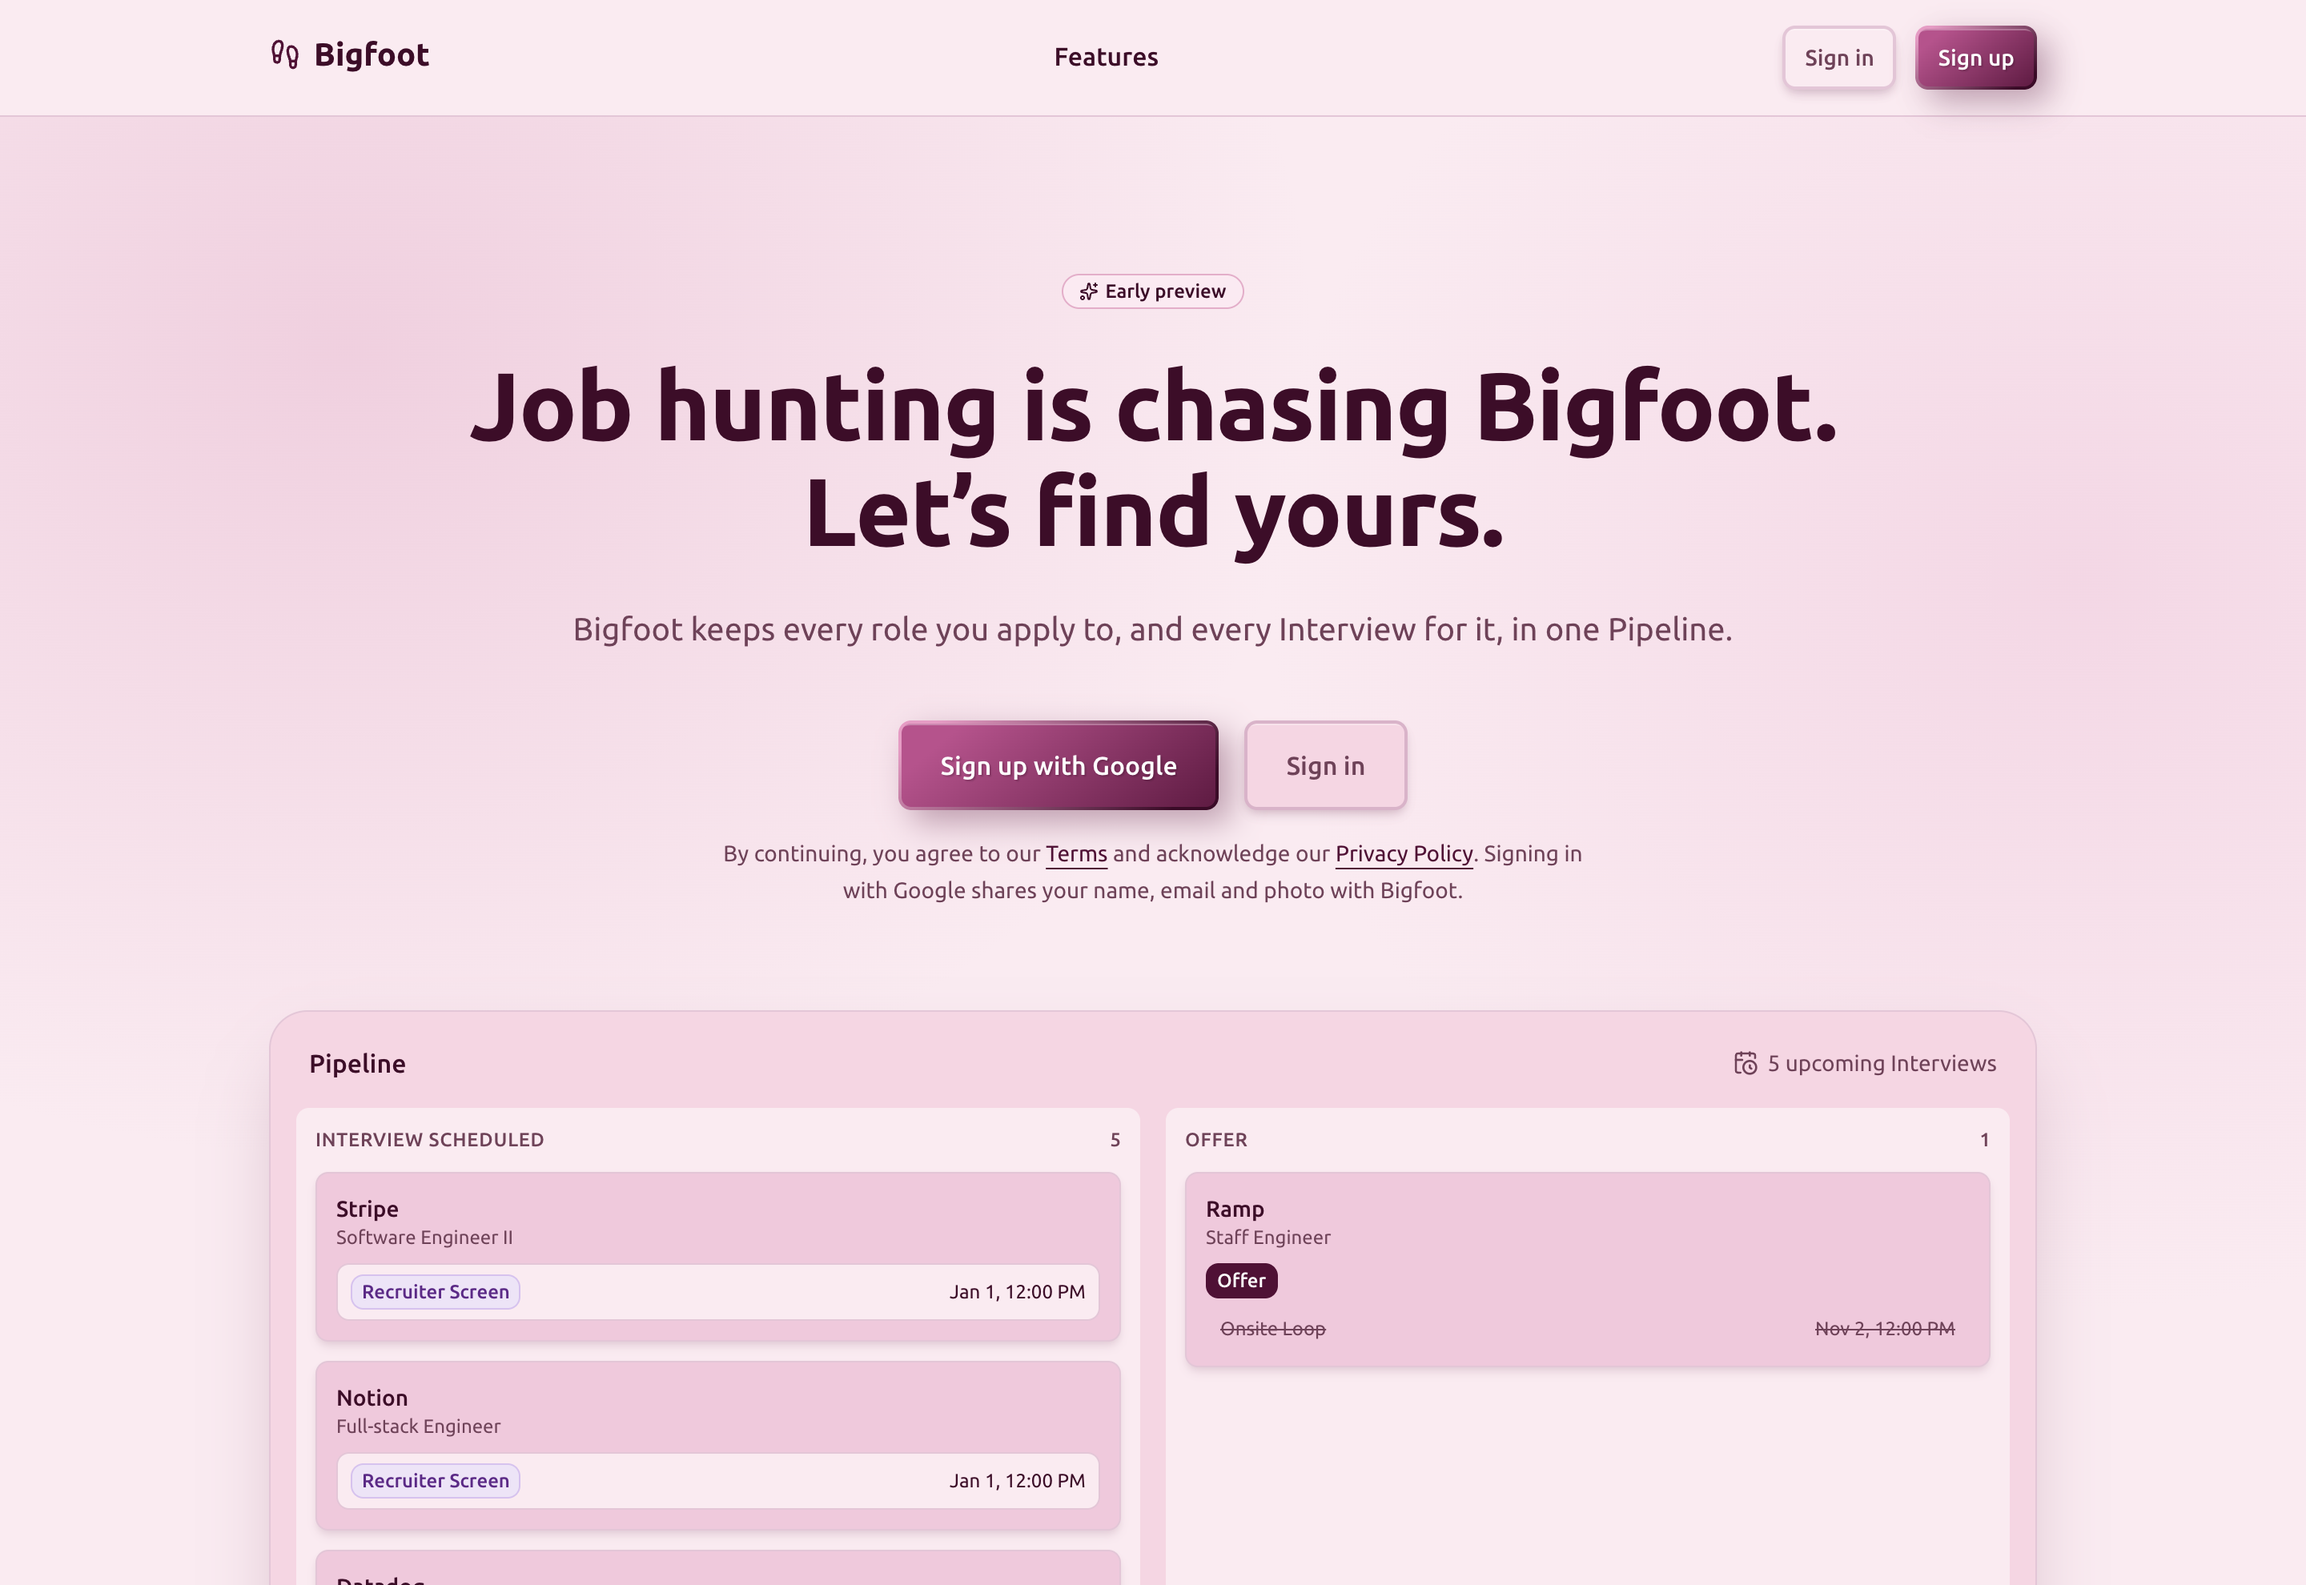
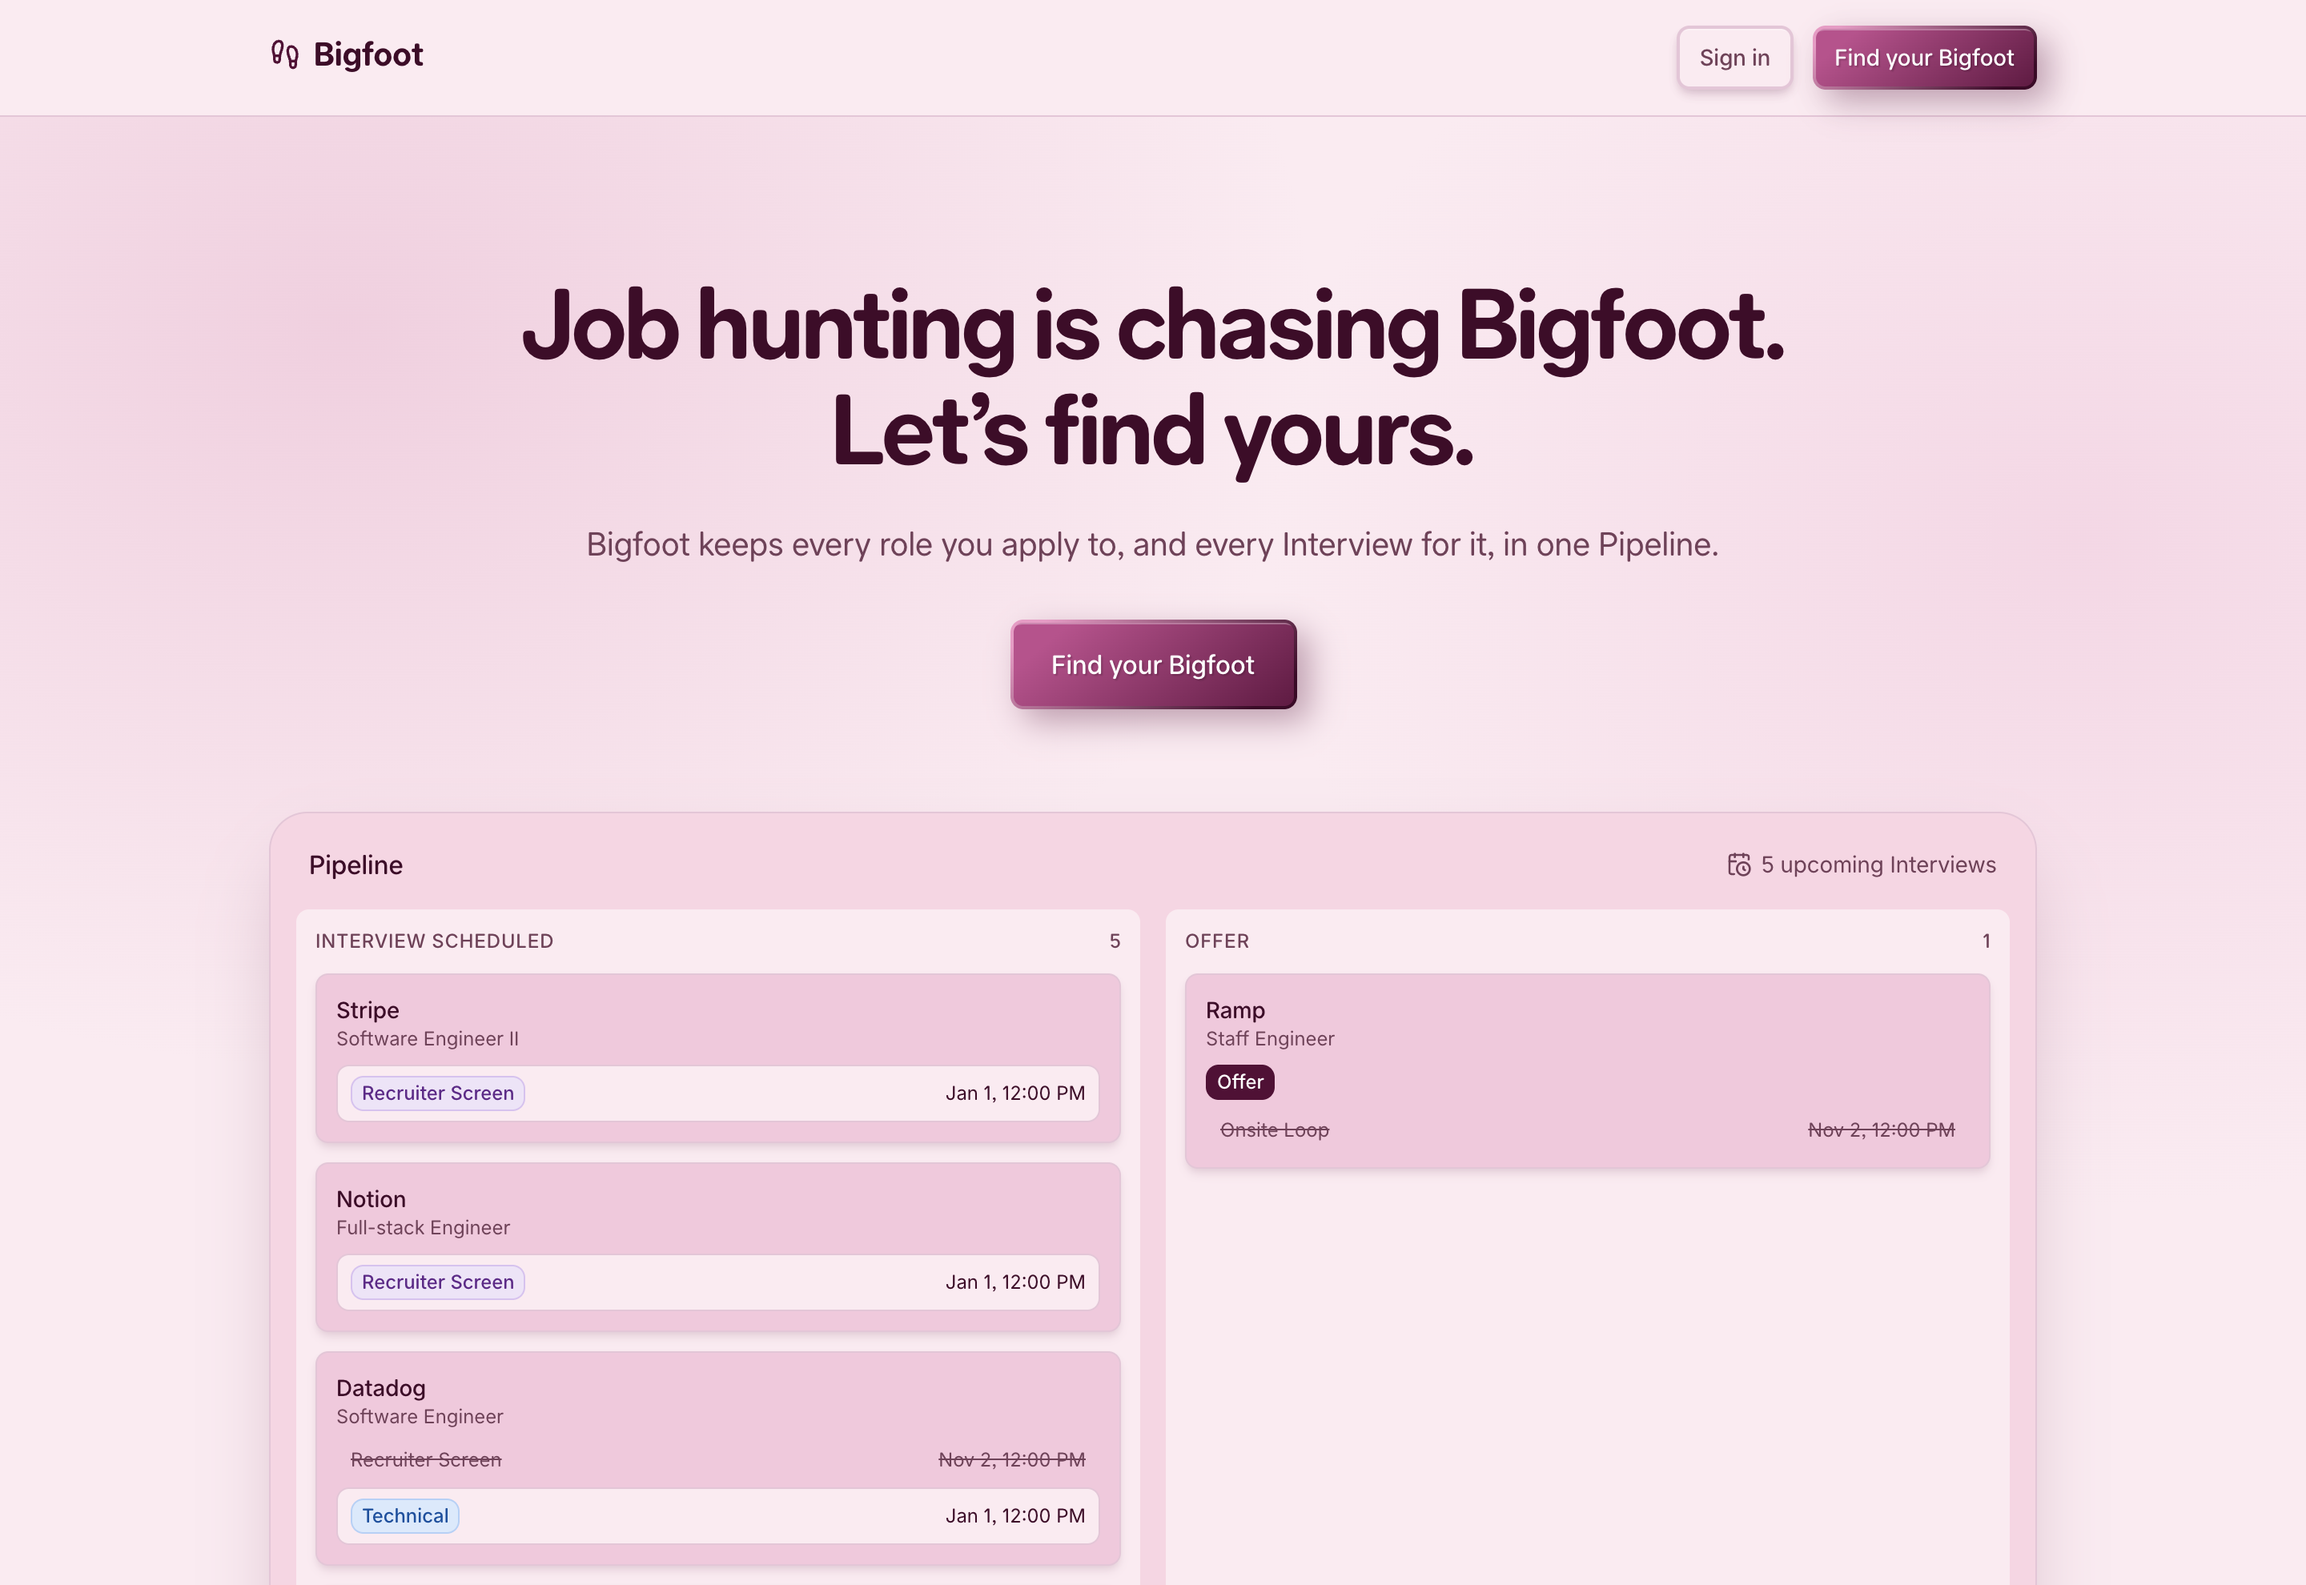
Switch the app font from Ubuntu to Allo, fully round (BIG-94)
Load Allo's variable font from the allo-font package with next/font/local, so it stays
self-hosted, and set its roundness axis to 100 on body. Remove the Ubuntu files, name Allo
in the TypeUI skill, and retake the README screenshots.

diff --git a/src/app/layout.tsx b/src/app/layout.tsx
@@ -2,14 +2,17 @@ import type { Metadata } from "next";
 import localFont from "next/font/local";
 import "./globals.css";
 
-// Ubuntu, latin subset, shipped in the repo (licence: fonts/UFL.txt) so dev, smoke and
-// build never need to reach Google Fonts.
-const ubuntu = localFont({
-  variable: "--font-ubuntu",
+// Allo (allo-font, SIL OFL 1.1), self-hosted from the npm package so dev, smoke and build
+// never reach a font CDN. The full variable font, so globals.css can set its roundness axis;
+// one file covers every weight from 100 to 900.
+const allo = localFont({
+  variable: "--font-allo",
   src: [
-    { path: "./fonts/ubuntu-latin-400.woff2", weight: "400", style: "normal" },
-    { path: "./fonts/ubuntu-latin-500.woff2", weight: "500", style: "normal" },
-    { path: "./fonts/ubuntu-latin-700.woff2", weight: "700", style: "normal" },
+    {
+      path: "../../node_modules/allo-font/fonts/webfonts/AlloVariable.woff2",
+      weight: "100 900",
+      style: "normal",
+    },
   ],
 });
 
@@ -21,7 +24,7 @@ export const metadata: Metadata = {
 
 export default function RootLayout({ children }: LayoutProps<"/">) {
   return (
-    <html lang="en" className={`${ubuntu.variable} antialiased`}>
+    <html lang="en" className={`${allo.variable} antialiased`}>
       <body className="min-h-dvh font-sans">{children}</body>
     </html>
   );

diff --git a/src/app/globals.css b/src/app/globals.css
@@ -165,7 +165,7 @@
 }
 
 @theme inline {
-  --font-sans: var(--font-ubuntu), ui-sans-serif, system-ui, sans-serif;
+  --font-sans: var(--font-allo), ui-sans-serif, system-ui, sans-serif;
 
   --color-surface: var(--surface);
   --color-surface-white: var(--surface-white);
@@ -250,6 +250,8 @@ body {
   color: var(--body);
   font-size: 16px;
   line-height: 1.7;
+  /* Allo's roundness axis: 0 sharp, 50 its default, 100 round. */
+  font-variation-settings: "ROND" 100;
 }
 
 :where(a, button, summary, [tabindex]):focus-visible {

diff --git a/.agents/skills/typeui-design-system/buttons.md b/.agents/skills/typeui-design-system/buttons.md
@@ -10,7 +10,7 @@
 - **Glint effect:** Every button except ghost and disabled gets a combined box-shadow that layers the base shadow with an inset top-edge highlight and a subtle outer color glow:
   - `var(--shadow-xs), inset var(--color-1-400) 0 6px 0px -5px, var(--color-1-700) 0 4px 10px -5px`
 - **Font weight:** 500 (medium)
-- **Font:** Ubuntu
+- **Font:** Allo
 - **Text shadow:** subtle wine-toned text shadow for filled gradient buttons — `1px 1px 1px rgba(42,10,29,0.25)` (use a tone from the brand palette, never pure black)
 - **Box sizing:** border-box
 - **Transition:** all properties, 0.3s

diff --git a/.claude/skills/typeui-design-system/buttons.md b/.claude/skills/typeui-design-system/buttons.md
@@ -10,7 +10,7 @@
 - **Glint effect:** Every button except ghost and disabled gets a combined box-shadow that layers the base shadow with an inset top-edge highlight and a subtle outer color glow:
   - `var(--shadow-xs), inset var(--color-1-400) 0 6px 0px -5px, var(--color-1-700) 0 4px 10px -5px`
 - **Font weight:** 500 (medium)
-- **Font:** Ubuntu
+- **Font:** Allo
 - **Text shadow:** subtle wine-toned text shadow for filled gradient buttons — `1px 1px 1px rgba(42,10,29,0.25)` (use a tone from the brand palette, never pure black)
 - **Box sizing:** border-box
 - **Transition:** all properties, 0.3s

diff --git a/.agents/skills/typeui-design-system/typography.md b/.agents/skills/typeui-design-system/typography.md
@@ -4,7 +4,7 @@
 
 ## Core Rules
 
-- **Font:** Ubuntu, sans-serif — configured at app level, never override
+- **Font:** Allo, sans-serif, at roundness 100 — configured at app level, never override
 - **Headings:** bold weight (700), heading text color
 - **Body copy:** body text color, never use brand color for paragraphs longer than one sentence
 - **Semantic HTML:** Use `h1`–`h6` in order, never skip levels

diff --git a/.claude/skills/typeui-design-system/typography.md b/.claude/skills/typeui-design-system/typography.md
@@ -4,7 +4,7 @@
 
 ## Core Rules
 
-- **Font:** Ubuntu, sans-serif — configured at app level, never override
+- **Font:** Allo, sans-serif, at roundness 100 — configured at app level, never override
 - **Headings:** bold weight (700), heading text color
 - **Body copy:** body text color, never use brand color for paragraphs longer than one sentence
 - **Semantic HTML:** Use `h1`–`h6` in order, never skip levels
